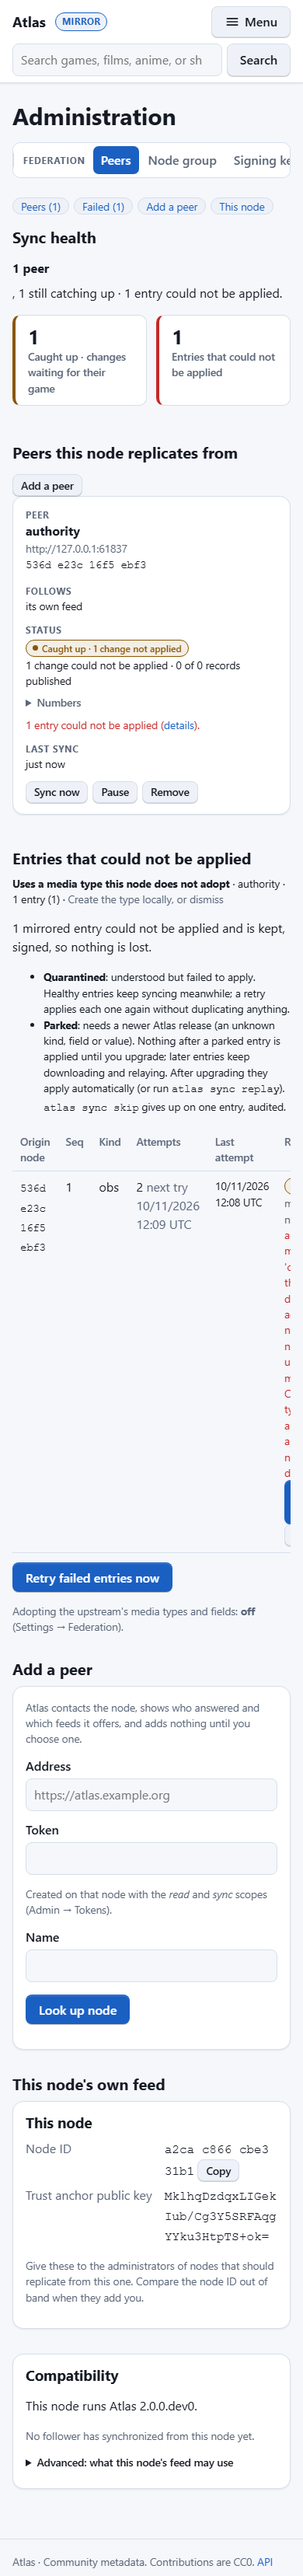
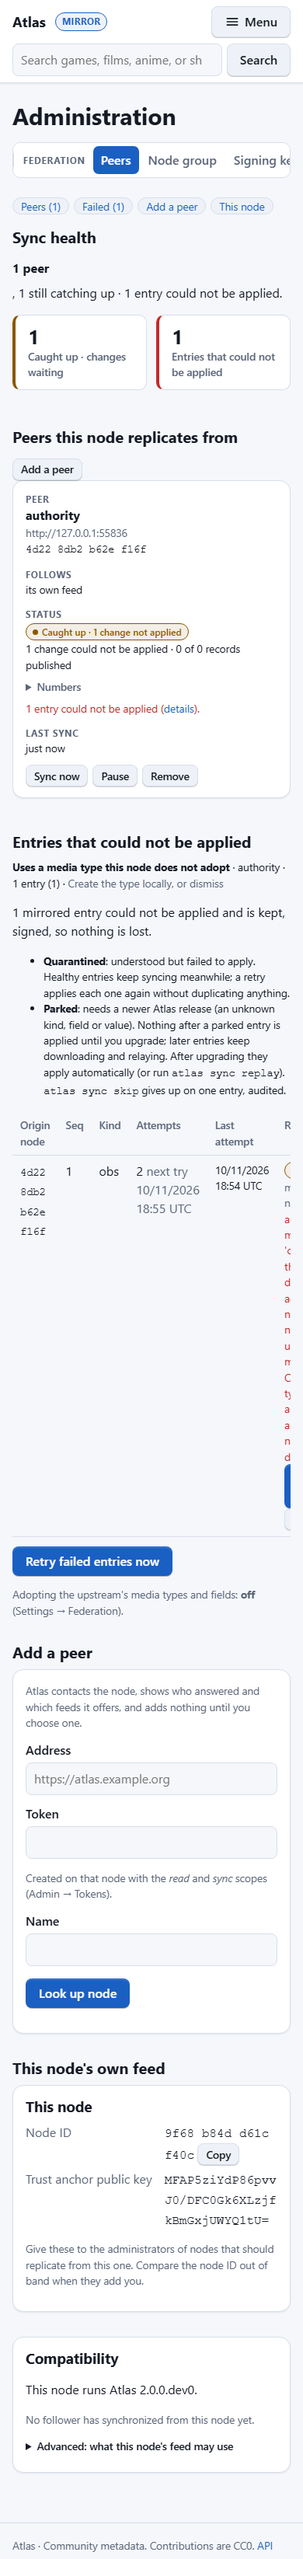
fix(admin): generic peer summary label covers type waits; re-shoot A20 evidence
Refs #15 #54

diff --git a/atlas/sync.py b/atlas/sync.py
@@ -1526,7 +1526,7 @@ def peer_status(peer: Peer, heads: dict[str, Any] | None, *, interval: int | Non
 PEER_STATUS_LABELS = {"paused": ("Paused", "warn"), "not_contacted": ("Not contacted yet", "warn"),
                       "needs_you": ("Blocked: needs you", "bad"), "unreachable": ("Can't reach it", "bad"),
                       "empty": ("Connected · nothing published", "warn"), "catching_up": ("Copying", "warn"),
-                      "caught_up_waiting": ("Caught up · changes waiting for their game", "warn"),
+                      "caught_up_waiting": ("Caught up · changes waiting", "warn"),  # A20: a game or a media type
                       "caught_up": ("Caught up", "ok")}
 _STATUS_ACTIONS = {"paused": "resume", "not_contacted": "sync_now", "needs_you": "see_details",
                    "unreachable": "check_address", "empty": "choose_again", "catching_up": "sync_now",

diff --git a/docs/guide/federation.md b/docs/guide/federation.md
@@ -115,7 +115,7 @@ Atlas inferred from the last sync and a banner asks you to confirm it once (**Ad
 | Status | Badge (example) | Meaning |
 | --- | --- | --- |
 | `caught_up` | Caught up | every entry the upstream reported is verified and applied, nothing waits |
-| `caught_up_waiting` | Caught up · 4 changes waiting for their game | applied up to the head, but some entries wait for their game or could not be applied (see below) |
+| `caught_up_waiting` | Caught up · 4 changes waiting for their game (or media type) | applied up to the head, but some entries wait for their game or media type, or could not be applied (see below) |
 | `catching_up` | Copying: 11 of 23 | the upstream has entries this node has not applied yet |
 | `empty` | Connected · nothing published | the chosen feed has no entries: often the wrong feed was chosen |
 | `not_contacted` | Not contacted yet | added, never synced (or the first pull did not answer in time) |
